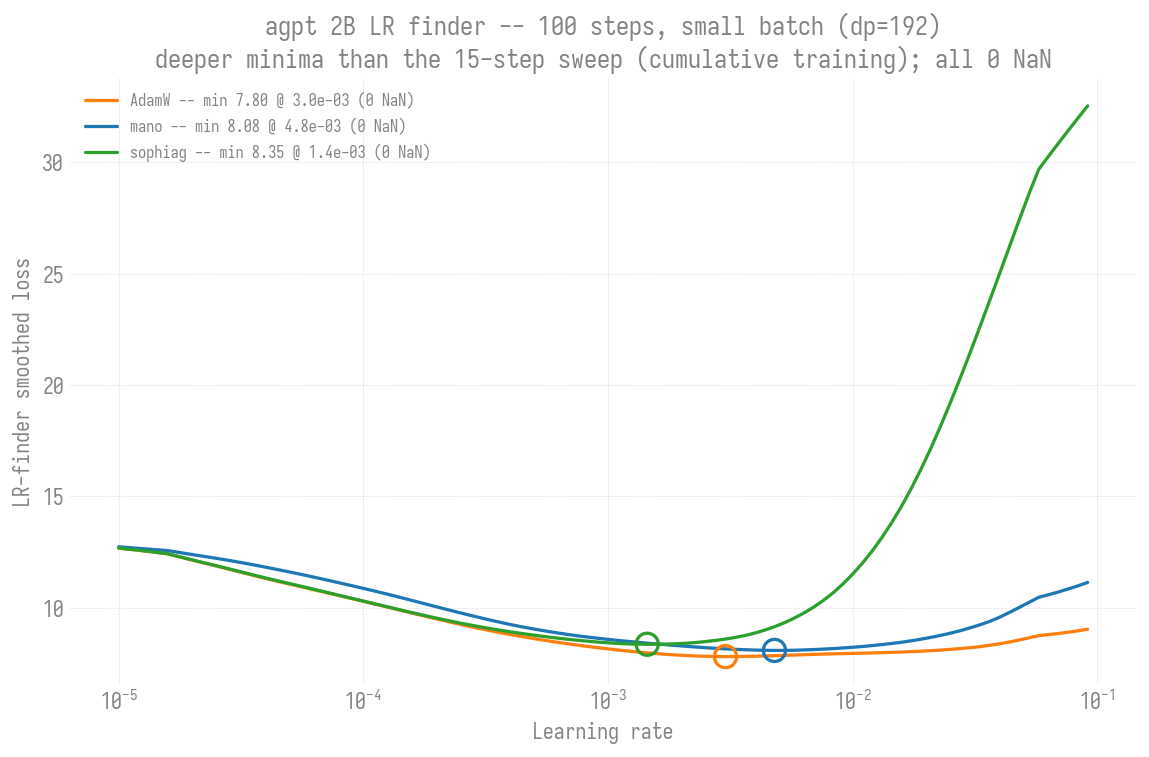
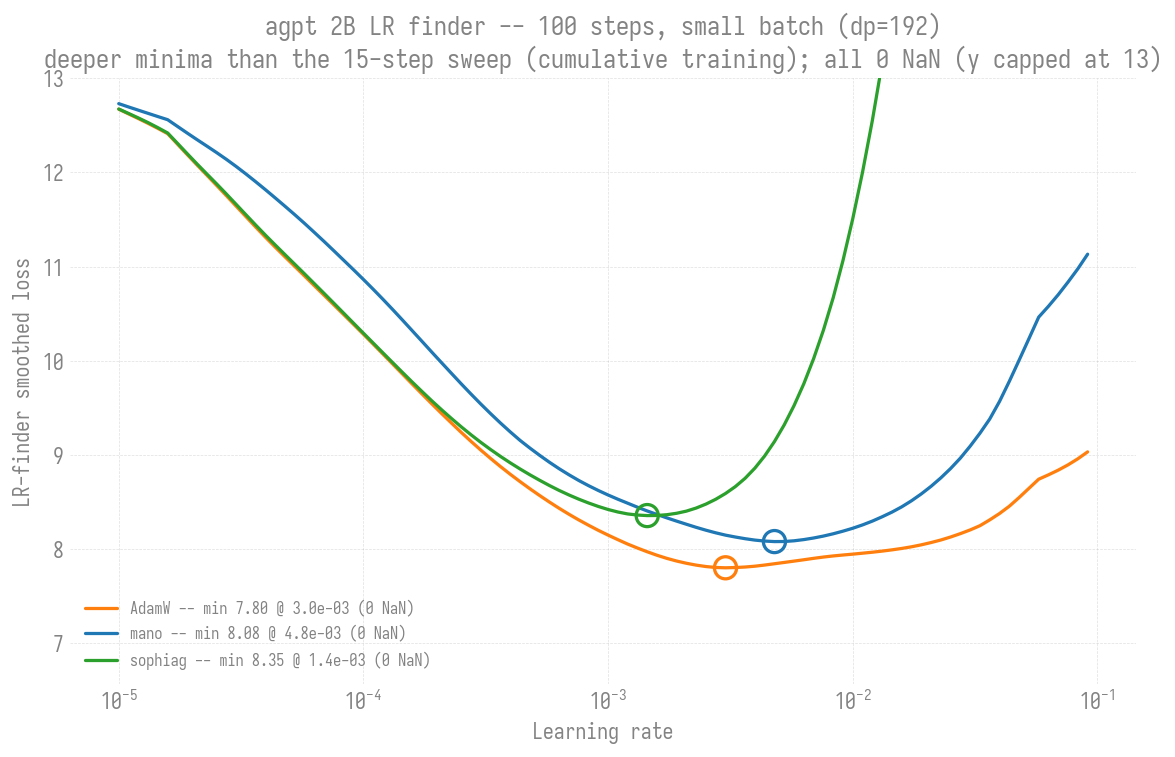
docs(ezpz/lr-finder/2b): cap 100-step finder y-axis at 13 to show the minima
sophiag's blow-up runs to ~32, which crushed the minima (all ~7.8-8.5) into
the bottom strip. set_ylim(top=13) zooms into the basin -- the three U-bottoms
+ circled minima are now clearly legible, descent shoulders and blow-up onsets
still visible. Also fixed the script's repo-root depth (scripts/ is 4 levels
below root, not 3) so it resolves outputs/ correctly when run in-repo.

diff --git a/torchtitan/experiments/ezpz/scripts/plot_2b_100step.py b/torchtitan/experiments/ezpz/scripts/plot_2b_100step.py
@@ -9,8 +9,9 @@ matplotlib.use("Agg")
 import matplotlib.font_manager as fm
 import matplotlib.pyplot as plt
 
-# repo root = 3 levels up from this script (experiments/ezpz/scripts/)
-REPO = os.path.abspath(os.path.join(os.path.dirname(__file__), "..", "..", ".."))
+# repo root = 4 levels up: scripts/ -> ezpz/ -> experiments/ -> torchtitan/ -> <root>
+REPO = os.path.abspath(
+    os.path.join(os.path.dirname(__file__), "..", "..", "..", ".."))
 BASE = f"{REPO}/outputs/lrfind-2b-100step/lr_finder/ezpz/ezpz.agpt/2b"
 OUT = f"{REPO}/torchtitan/experiments/ezpz/docs/experiments/lr-finder/agpt/2b/figures/lr_finder_2b_100step_all_optimizers.png"
 OPT_COLOR = {"adamw": "#ff7f0e", "mano": "#1f77b4", "sophiag": "#2ca02c"}
@@ -64,11 +65,15 @@ for opt in ("adamw", "mano", "sophiag"):
     ax.scatter([lr[mi]], [ls[mi]], s=150, facecolors="none",
                edgecolors=OPT_COLOR[opt], linewidths=1.8, zorder=4)
 ax.set_xscale("log")
+# Cap y at 13: minima cluster ~7.8-8.5; sophiag's blow-up runs to ~32 and
+# otherwise crushes the basin into the bottom strip. 13 zooms into the minima
+# while still showing the descent + start of each blow-up.
+ax.set_ylim(top=13)
 ax.set_xlabel("Learning rate")
 ax.set_ylabel("LR-finder smoothed loss")
 ax.set_title("agpt 2B LR finder -- 100 steps, small batch (dp=192)\n"
              "deeper minima than the 15-step sweep (cumulative training); "
-             "all 0 NaN")
+             "all 0 NaN (y capped at 13)")
 ax.legend(fontsize=9)
 fig.tight_layout()
 fig.savefig(OUT, dpi=130, bbox_inches="tight")
